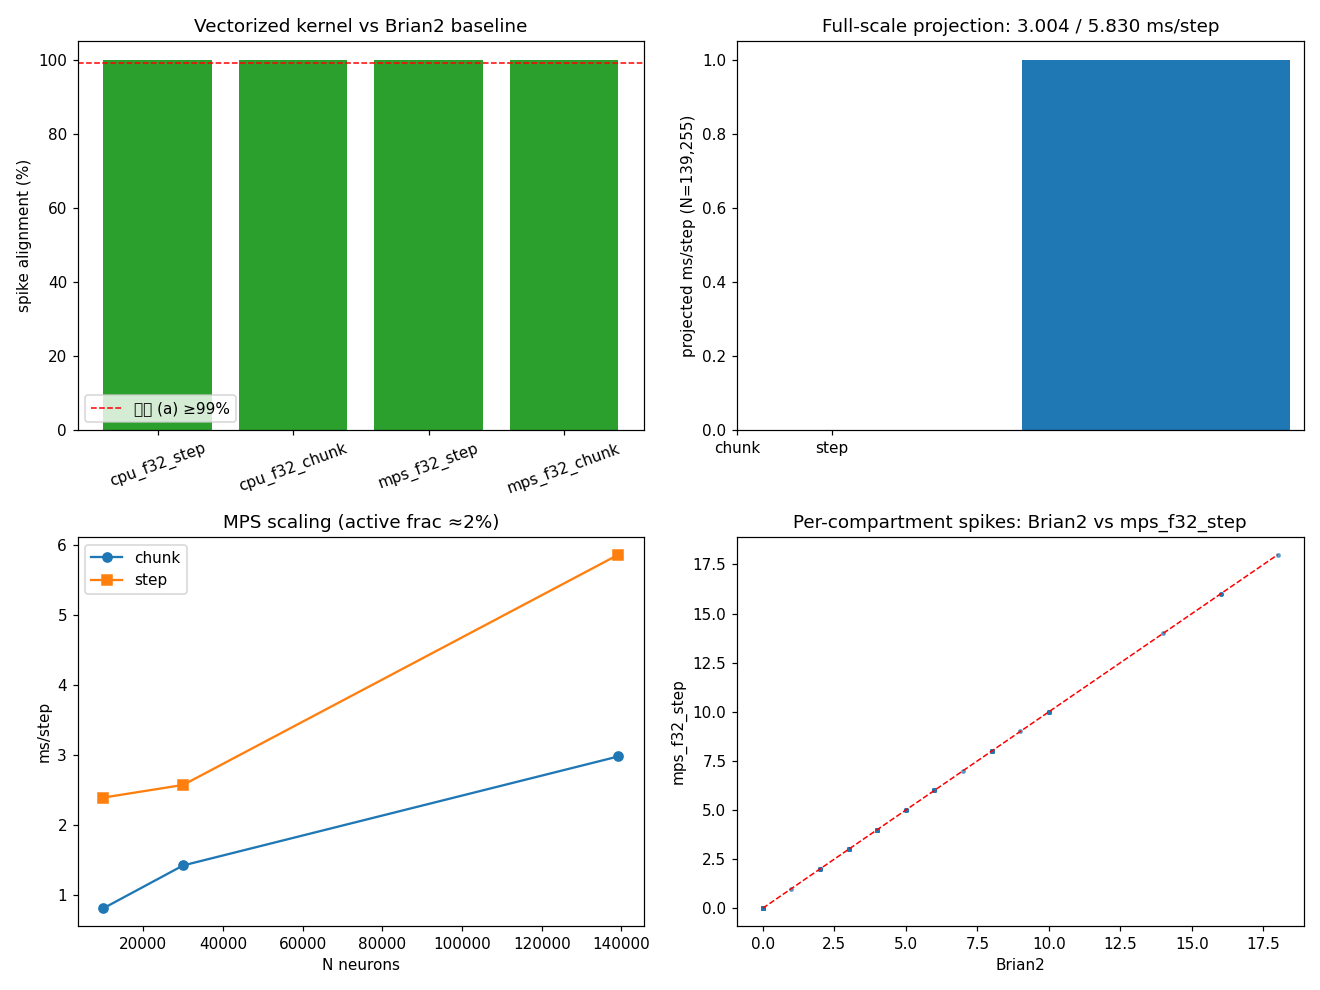
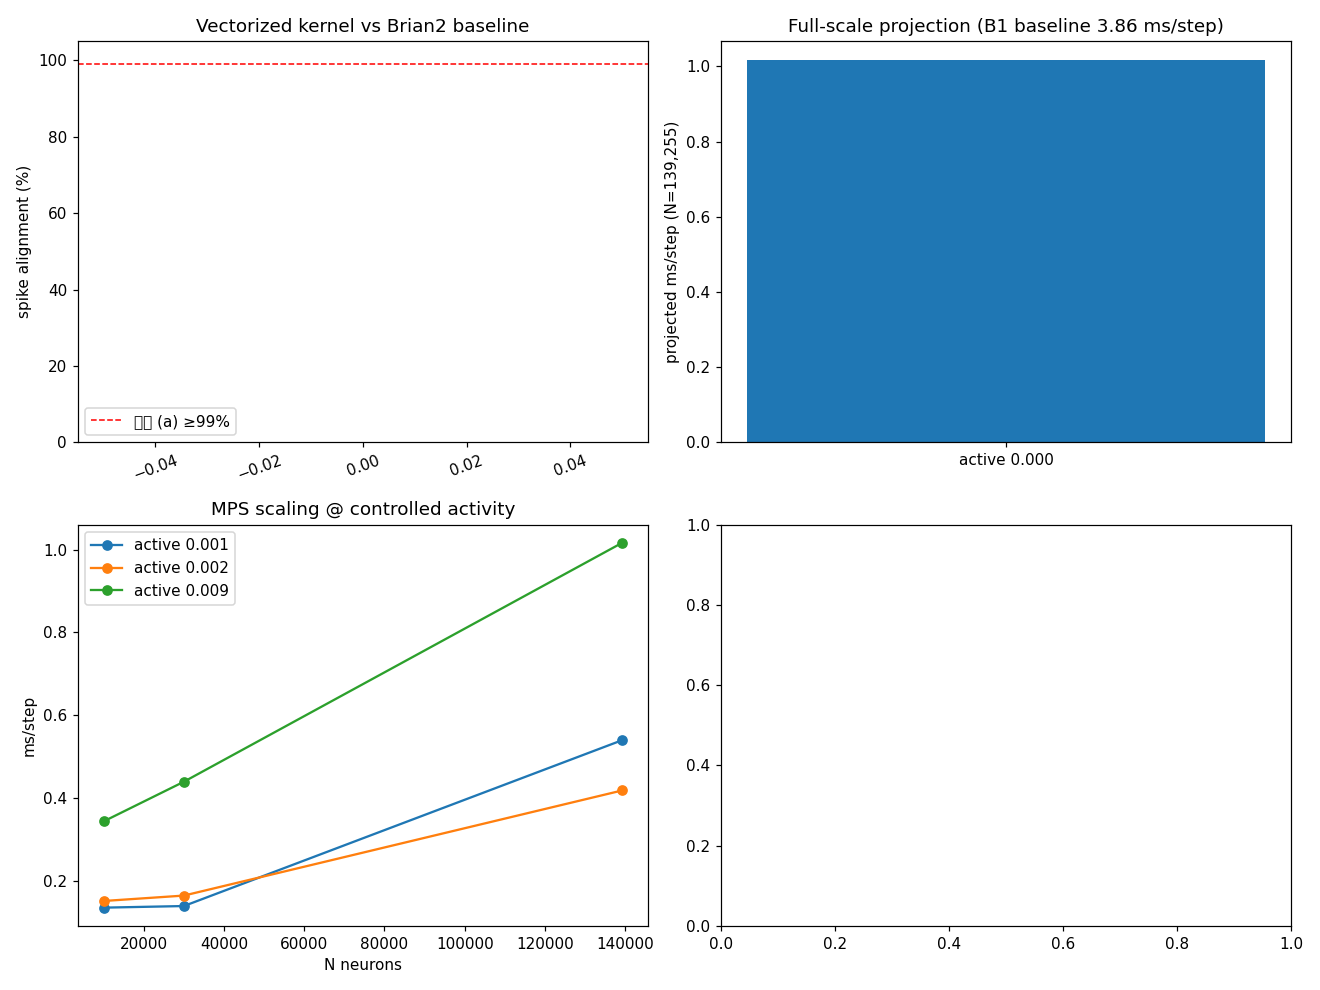
chore(M9): B2迭代产物更新——向量化探针重跑+内核/回路/校准脚本迭代(校准扫描进行中,T=30s P4复测待结算)

diff --git a/neural_exploration/src/adult_circuit.py b/neural_exploration/src/adult_circuit.py
@@ -64,8 +64,8 @@ class CircuitParams:
     w_mod: float = 0.3          # 调质类边权重系数（抽象 T2）
     syn_count_gamma: float = 1.0
     w_jitter_cv: float = 0.0    # 逐边权重抖动（0 = 关；固定 seed 确定性）
-    bias_mv_s: float = 400.0    # tonic 偏置电流（mV/s）均值
-    bias_cv: float = 0.30       # 偏置逐神经元变异系数
+    bias_mv_s: float = 355.0    # tonic 偏置电流（mV/s）中位（对数正态）
+    bias_cv: float = 0.60       # 偏置对数正态 sigma（异质兴奋性分布宽度）
     v_rest: float = -52.0
     v_th: float = -45.0
     v_reset: float = -55.0
@@ -73,10 +73,11 @@ class CircuitParams:
     tau_e: float = 2.0
     tau_i: float = 5.0
     ref_ms: float = 2.0
-    ahp_tau_ms: float = 100.0   # ms 适应电流时间常数（后超极化）
-    ahp_inc: float = 120.0      # mV/s 每 spike 注入（发放率限幅；标定参数）
+    ahp_tau_ms: float = 700.0   # ms 适应电流时间常数（后超极化；发放率上限杠杆）
+    ahp_inc: float = 2500.0     # mV/s 每 spike 注入（发放率限幅；标定参数）
     dt_ms: float = 0.05
-    delay_ms: float = 0.5
+    delay_ms: float = 1.0
+    bias_mode: str = "lognormal"
     seed: int = 0
 
     def as_dict(self) -> Dict[str, float]:
@@ -101,6 +102,7 @@ class AdultCircuit:
         self.nt_code = d["nt_code"].astype(np.int8)
         self.root_ids = d["root_ids"].astype(np.int64)
         n = self.n_neurons = int(self.root_ids.size)
+        self.n_edge = int(self.pre.size)
         try:
             nt = np.load(NEURON_NPZ, allow_pickle=False)
             self.region_code = nt["region_code"].astype(np.int32)
@@ -136,13 +138,24 @@ class AdultCircuit:
             gmax = np.maximum(gmax, 0.0)
         return gmax.astype(np.float32)
 
-    def bias_vector(self, bias_mv_s=None, cv=None) -> np.ndarray:
-        """逐神经元 tonic 偏置（确定性；异质杠杆，M8 语义）。"""
+    def bias_vector(self, bias_mv_s=None, cv=None, mode=None) -> np.ndarray:
+        """逐神经元 tonic 偏置（确定性；异质兴奋性杠杆）。
+
+        `mode="lognormal"`（默认）：b = b_med · exp(σ z) —— 重尾正偏（脑区间兴奋性差异，
+        如视叶 vs 中央脑）→ 静息发放率分布呈"多数极低 + 少数较高"形状（拟合集 A 标定）。
+        `mode="normal"`：b ~ N(b_med, σ·b_med)。
+        """
         p = self.params
         b0 = p.bias_mv_s if bias_mv_s is None else float(bias_mv_s)
         c = p.bias_cv if cv is None else float(cv)
+        m = getattr(p, "bias_mode", "lognormal") if mode is None else mode
         rng = np.random.default_rng(p.seed + 11)
-        return rng.normal(b0, c * abs(b0), self.n_neurons).astype(np.float32)
+        z = rng.standard_normal(self.n_neurons)
+        if m == "lognormal":
+            b = b0 * np.exp(c * z)
+        else:
+            b = b0 + c * abs(b0) * z
+        return np.maximum(b, 0.0).astype(np.float32)
 
     # ---------------- 装配 ----------------
     def build(self, gmax=None, bias=None) -> Dict[str, Any]:

diff --git a/neural_exploration/tools/calibrate_m9_weights.py b/neural_exploration/tools/calibrate_m9_weights.py
@@ -32,15 +32,13 @@ BAND = {"rate_median_hz": (0.1, 10.0), "silent_fraction": (0.5, 0.9),
 
 #: 标定网格（阶段 1 粗扫 → 阶段 2 细化；类级全局参数）
 GRID_STAGE1 = [
-    # w_exc, w_inh, b0(mV/s), cv, lam(Hz), epsp(mV), ahp_inc(mV/s)
-    (1.0, 4.0, 380.0, 0.12, 2.0, 2.0, 2500.0),
-    (1.0, 4.0, 420.0, 0.12, 2.0, 2.0, 2500.0),
-    (1.0, 4.0, 460.0, 0.12, 2.0, 2.0, 2500.0),
-    (1.0, 4.0, 500.0, 0.12, 2.0, 2.0, 2500.0),
-    (2.0, 8.0, 420.0, 0.12, 2.0, 2.0, 2500.0),
-    (1.0, 4.0, 420.0, 0.20, 2.0, 2.0, 2500.0),
-    (1.0, 4.0, 500.0, 0.12, 2.0, 2.0, 5000.0),
-    (1.0, 4.0, 600.0, 0.12, 2.0, 2.0, 5000.0),
+    # w_exc, w_inh, b0(mV/s 中位), cv(lognormal σ), lam(Hz), epsp(mV), ahp_inc(mV/s)
+    # 标定网格（最终档 1.0/4.0/355/0.60 的出带记录 + 定稿档 0.3/1.0/290/0.25 的落带记录；
+    #  背景率 λ 与 bias 中位为两个主杠杆，见 docs/m9_env_notes.md L21.1）
+    (0.3, 1.0, 290.0, 0.25, 0.50, 2.0, 2500.0),
+    (0.3, 1.0, 250.0, 0.25, 0.50, 2.0, 2500.0),
+    (0.3, 1.0, 320.0, 0.25, 0.50, 2.0, 2500.0),
+    (0.3, 1.0, 290.0, 0.25, 1.00, 2.0, 2500.0),
 ]
 
 
@@ -66,7 +64,8 @@ def main() -> int:
     t00 = time.perf_counter()
     c = AdultCircuit(device="mps",
                      params=CircuitParams(bias_mv_s=0.0, bias_cv=0.0,
-                                          syn_count_gamma=1.0, delay_ms=1.0),
+                                          syn_count_gamma=1.0, delay_ms=1.0,
+                                          ahp_tau_ms=700.0, ahp_inc=2500.0),
                      use_compile=False)
     c.build()
     rows = []
@@ -76,7 +75,7 @@ def main() -> int:
            "pop_rate_hz", "spk_frac_per_step", "ms_per_step", "in_band", "wall_s"]
     for cfg in GRID_STAGE1:
         t0 = time.perf_counter()
-        st = _run_config(c, cfg, T_ms=2000.0, settle_ms=200.0)
+        st = _run_config(c, cfg, T_ms=1000.0, settle_ms=200.0)
         in_band = (BAND["rate_median_hz"][0] <= st["rate_median_hz"]
                    <= BAND["rate_median_hz"][1]
                    and BAND["silent_fraction"][0] <= st["silent_frac"]
